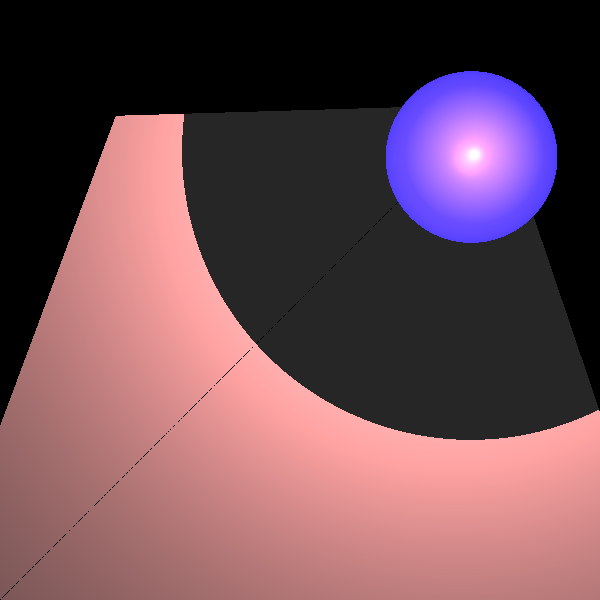
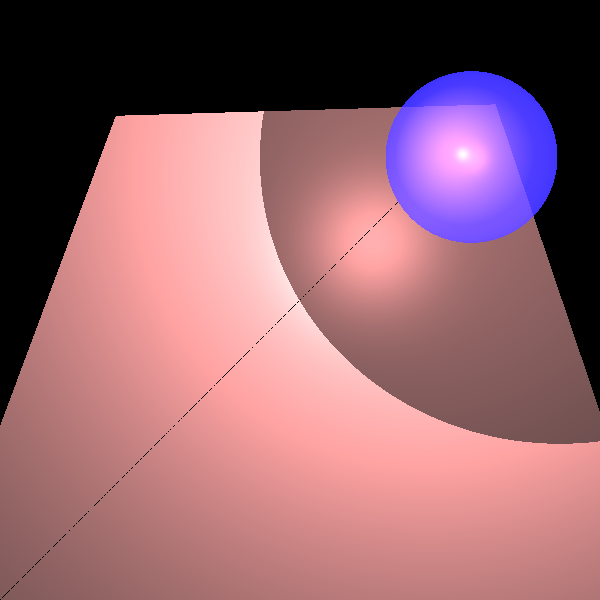
PRO7 finished

Changed region(s): [[0.3, 0.12, 1.0, 0.75]]

diff --git a/src/renderer/RayTracerBasic.java b/src/renderer/RayTracerBasic.java
@@ -8,6 +8,7 @@ import scene.Scene;
 import java.util.List;
 import geometries.Intersectable.GeoPoint;
 
+
 import static primitives.Util.alignZero;
 import static primitives.Util.isZero;
 
@@ -16,36 +17,47 @@ public class RayTracerBasic extends RayTracerBase {
     private static final Double3 INITIAL_K = new Double3(1.0);//initial value of k
     private static final int MAX_CALC_COLOR_LEVEL = 10;//maximum level of recursion
     private static final double MIN_CALC_COLOR_K = 0.001;//minimum value of k
+    private static final double DELTA = 0.1;
+
 
     /**
-     * check if the point is shaded by another geometry
+     * calculate whether the point is shaded or not
      * @param gp
+     * @param light
      * @param l
      * @param n
-     * @return
+     * @return Double3 object that represent the transparency of the point
      */
-    private boolean unshaded(GeoPoint gp,LightSource lightSource, Vector l, Vector n) {
+    private Double3 transparency(GeoPoint gp, LightSource light,
+                                 Vector l, Vector n) {
+        //create a ray from the point to the light source
+        Vector lightDirection = l.scale(-1);
+        Vector delta = n.scale(n.dotProduct(lightDirection) > 0 ? DELTA : -DELTA);
+        Point point = gp.point.add(delta);
+        //use the 3 parameters to create a ray
+        Ray lightRay = new Ray(gp.point, lightDirection, n);
+        //check if the ray intersect with any geometry
+        List<GeoPoint> intersections = scene.getGeometries().findGeoIntersectionsHelper(lightRay);
+        Double3 result = Double3.ONE;
+        //if there is no intersection return (1,1,1), represent no shading
+        if (intersections == null || intersections.isEmpty()) {
+            return result;
+        }
 
-            if (gp.geometry.getMaterial().kT.equals(Double3.ZERO)) {
-
-                Vector lightDirection = l.scale(-1);//from point to light source
-                Ray lightRay = new Ray(gp.point, lightDirection, n);
-                List<GeoPoint> intersections = scene.getGeometries().findGeoIntersectionsHelper(lightRay);
-
-                if (intersections == null)
-                    return true;
-
-                double distancePoint_lightSource = lightSource.getDistance(gp.point);//מרחק בין ראש הקרן לבין מקור האור
-
-                for (GeoPoint intersection : intersections) {
-
-                    double dis = intersection.point.distanceSquared(gp.point);
-                    if (dis < distancePoint_lightSource)//מרחקים בין ראש הקרן לבין נקודות חיתוך
-                        return false;
+        //calculate the distance between the point and the light source
+        double lightDistance = light.getDistance(point);
+        for (GeoPoint geop : intersections) {
+            //if the distance between the point and the light source
+            // is smaller than the distance between the point and the intersection
+            if (alignZero(point.distanceSquared(geop.point) - lightDistance) <= 0) {
+                result = geop.geometry.getMaterial().kT.product(result);
+                //if the transparency is smaller than the minimum value return (0,0,0), represent full shading
+                if (result.lowerThan(MIN_CALC_COLOR_K)) {
+                    return Double3.ZERO;
                 }
             }
-            return true;
-
+        }
+        return result;
     }
 
 
@@ -122,6 +134,7 @@ public class RayTracerBasic extends RayTracerBase {
         Vector v = dir;
         Vector n = gp.geometry.getNormal(gp.point);
         double nv = alignZero(n.dotProduct(v));
+        //if n*v = 0, the point is not shaded
         if (nv == 0)
             return color;
 
@@ -132,12 +145,17 @@ public class RayTracerBasic extends RayTracerBase {
             Vector l = lightSource.getL(gp.point);
             double nl = alignZero(n.dotProduct(l));
 
+            //nl * nv > 0, the point is not shaded
             if (nl * nv > 0) {//sign(nl) == sign(nv)
-                if (unshaded(gp,lightSource,l,n)) {
-                    Color iL = lightSource.getIntensity(gp.point);
+                Double3 result = transparency(gp,lightSource, l, n);
+                //if the point is not shaded, not equal to (0,0,0)
+                if (!result.equals(Double3.ZERO)) {
+                    //calculate the color of the point, using the light source intensity multiplied by the transparency
+                    Color lightIntensity = lightSource.getIntensity(gp.point).scale(result);
                     color = color.add(
-                            iL.scale(calcDiffusive(material.kD, nl)),
-                            iL.scale(calcSpecular(material, n, l, nl, v)));
+                            //add the diffusive and specular effects
+                            lightIntensity.scale(calcDiffusive(material.kD,nl)),
+                            lightIntensity.scale(calcSpecular(material, n, l, nl, v)));
                 }
             }
         }
@@ -152,19 +170,43 @@ public class RayTracerBasic extends RayTracerBase {
      * @param k
      * @return
      */
-    private Color calcGlobalEffects(GeoPoint gp, Vector dir, int level, Double3 k){
-
-       //TODO -- Implement this method correctly
-
-       return null;
+    private Color calcGlobalEffects(GeoPoint gp, Vector dir,
+                                    int level, Double3 k) {
+        Color color = Color.BLACK;
+        Vector v = dir;
+        Vector n = gp.geometry.getNormal(gp.point);
+        Material material = gp.geometry.getMaterial();
+        return calcColorGlobalEffect(constructReflectedRay(gp.point, v, n),
+                level, k, material.kR)
+                .add(calcColorGlobalEffect(constructRefractedRay(gp.point, v, n),
+                        level, k, material.kT));
     }
 
+
+    /**
+     * construct the reflected ray
+     * @param point
+     * @param dir
+     * @param normal
+     * @return the reflected ray
+     */
     private Ray constructReflectedRay(Point point, Vector dir, Vector normal) {
 
         Vector normalDir = normal.scale(-2 * dir.dotProduct(normal));
         Vector result = dir.add(normalDir);
         /* use the constructor with 3 arguments to move the head */
         return new Ray(point, result, normal);
+    }
+    /**
+     * construct the refracted ray
+     * @param point
+     * @param dir
+     * @param normal
+     * @return the refracted ray
+     */
+    private Ray constructRefractedRay(Point point, Vector dir, Vector normal) {
+
+        return new Ray(point, dir, normal);
     }
 
     /**
@@ -179,12 +221,10 @@ public class RayTracerBasic extends RayTracerBase {
 
         Double3 kkx = k.product(kx);
         if (kkx.lowerThan(MIN_CALC_COLOR_K)) return Color.BLACK;
-
         GeoPoint gp = findClosestIntersection(ray);
         if (gp == null) return scene.getBackground().scale(kx);
-
         return isZero(gp.geometry.getNormal(gp.point).dotProduct(ray.getDir()))
-                ? Color.BLACK : calcColor(gp, ray.getDir(),level - 1, kkx);
+                ? Color.BLACK : calcColor(gp, ray.getDir(), level-1, kkx).scale(kx);
     }
 
 
@@ -211,7 +251,8 @@ public class RayTracerBasic extends RayTracerBase {
      * @return Double3 - the specular component of the color
      */
     private Double3 calcSpecular(Material material, Vector n, Vector l, double nl, Vector v) {
-       Vector r = l.subtract(n.scale(2 * nl));
+
+        Vector r = l.subtract(n.scale(2 * nl));
        double vr = alignZero(v.dotProduct(r) * -1);
        return vr <= 0 ? Double3.ZERO : material.kS.scale(Math.pow(vr, material.nShininess));
     }

diff --git a/unitTests/renderer/ReflectionRefractionTests.java b/unitTests/renderer/ReflectionRefractionTests.java
@@ -5,6 +5,9 @@ package renderer;
 
 import static java.awt.Color.*;
 
+import geometries.Polygon;
+import lighting.DirectionalLight;
+import lighting.PointLight;
 import org.junit.jupiter.api.Test;
 
 import geometries.Sphere;
@@ -21,6 +24,54 @@ import scene.Scene;
  * @author dzilb */
 public class ReflectionRefractionTests {
     private Scene scene = new Scene.SceneBuilder("Test scene").build();
+
+    @Test
+    public void polygonTest() {
+        Scene          scene1                  = new Scene.SceneBuilder("Test scene1").build();
+        Material       material                = new Material()
+                .setKd(new Double3(0.2, 0.6, 0.4)
+               ).setKs(new Double3(0.2, 0.4, 0.3))
+                .setShininess(301);
+        Material       material1               = new Material()
+                .setKd(0.2)
+                .setKs(1)
+                .setKR(0.4)
+                .setShininess(300);
+
+
+        for (int i = 0; i < 5; ++i) {
+            for (int j = 0; j < 5; ++j) {
+                scene1.getGeometries()
+                        .add(new Polygon(
+                                new Point(-75 + j * 30, 75 - 30*i, 0),
+                                new Point(-75 + j * 30, 45 - 30*i, 0),
+                                new Point(-45 + j * 30, 45 - 30*i, 0),
+                                new Point(-45 + j * 30, 75 - 30*i, 0))
+                                .setMaterial(material)
+                                .setEmission((i + j) % 2 == 0 ? new Color(125,61,0) : new Color(96,96,96)));
+                scene1.getGeometries()
+                        .add(new Sphere(new Point(-60 + j * 30,  (-60 + j * 30) == 30 && (60 - 30*i) == -60 ? - 1000 :60 - 30*i,10), 10d)
+                                .setMaterial(material1)
+                                .setEmission(new Color(32,32,32)));
+            }
+        }
+
+
+        scene1.getLights().add(new PointLight(new Color(800,300,0), new Point(-80,80,60)).setKl(0.001).setKq(0.0002));
+        scene1.getLights().add(new PointLight(new Color(800,300,0), new Point(80,-80,60)).setKl(0.001).setKq(0.0002));
+        scene1.getLights().add(new PointLight(new Color(500,200,0), new Point(80,-80,60)).setKl(0.001).setKq(0.0002));
+
+
+        Camera         camera1                 = new Camera(new Point(-380,-380,380),
+               new Vector(1,1,-1), new Vector(1,0,1))
+                .setVPSize(150, 150).setVPDistance(530);
+        ImageWriter imageWriter = new ImageWriter("lightPolygons", 1000, 1000);
+        camera1.setImageWriter(imageWriter) //
+                .setRayTracer(new RayTracerBasic(scene1)) //
+                .renderImage() //
+                .writeToImage(); //
+    }
+
 
     /** Produce a picture of a sphere lighted by a spot light */
     @Test
@@ -99,7 +150,7 @@ public class ReflectionRefractionTests {
                 new Sphere(new Point(60, 50, -50), 30d).setEmission(new Color(BLUE)) //
                         .setMaterial(new Material().setKd(0.2).setKs(0.2).setShininess(30).setKT(0.6)));
 
-        scene.getLights().add(new SpotLight(new Color(700, 400, 400), new Point(60, 50, 0), new Vector(0, 0, -1)) //
+        scene.getLights().add(new SpotLight(new Color(700, 400, 400), new Point(50, 50, 0), new Vector(0, 0, -1)) //
                 .setKl(4E-5).setKq(2E-7));
 
         ImageWriter imageWriter = new ImageWriter("refractionShadow", 600, 600);
